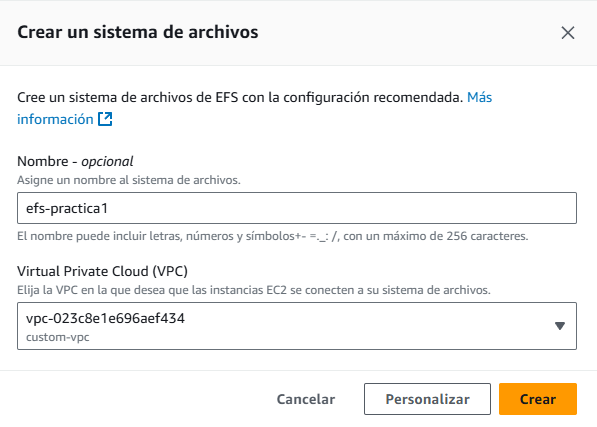
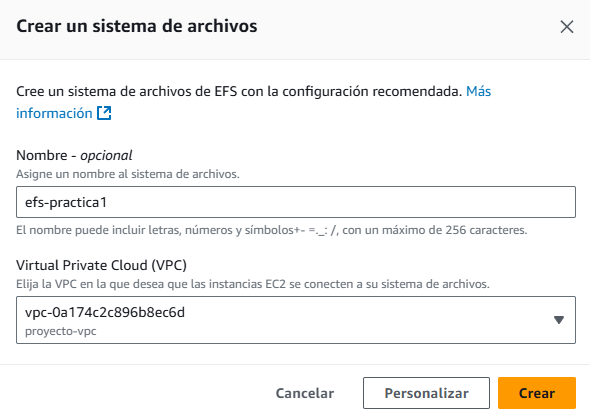
a

diff --git a/aws/efs/readme.md b/aws/efs/readme.md
@@ -13,5 +13,16 @@
 
 ![alt text](image.png)
 
+- Añadimos el **Nombre** y el **VPC**
+  - **Nombre**: `efs-practica1`
+  - **VPC**: `proyecto-vpc`
 
 ![alt text](image-1.png)
+
+![alt text](image-2.png)
+
+- Volvemos a la **VPC > Seguridad > Grupos de Seguridad** 
+
+![alt text](image-3.png)
+
+- Creamos un nuevo grupo de seguridad para el EFS y lo asociamos a la VPC.
